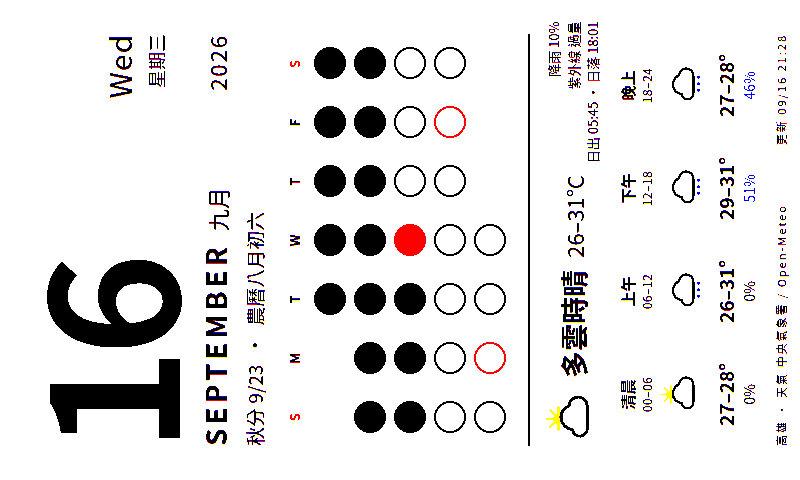
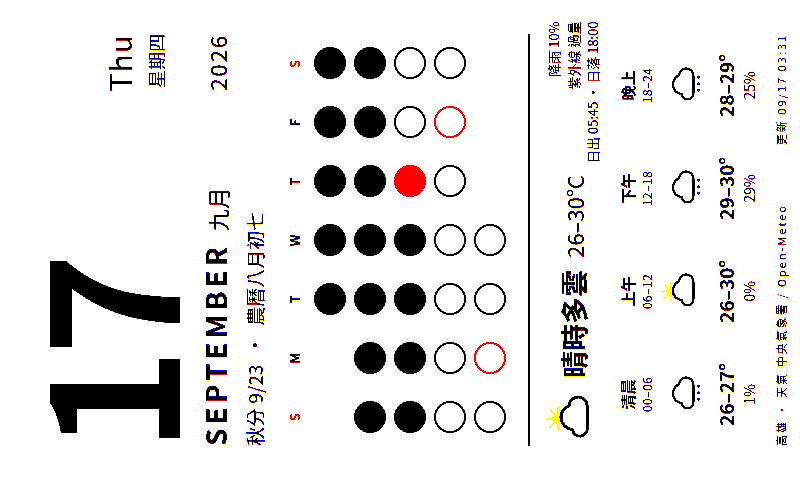
deploy: cf7d1051eb6821bc691ba0ade4beb12cdf9fe0ef

diff --git a/calendar.html b/calendar.html
@@ -47,16 +47,16 @@
 </style></head>
 <body><div class="page">
   <div class="head">
-    <div class="num">16</div>
-    <div class="wd"><div class="en">Wed</div><div class="zh">星期三</div></div>
+    <div class="num">17</div>
+    <div class="wd"><div class="en">Thu</div><div class="zh">星期四</div></div>
   </div>
   <div class="month"><span class="en">SEPTEMBER</span><span class="zh">九月</span><span class="yr">2026</span></div>
-  <div class="today"><span class="lunar">秋分 9/23</span><span>·</span><span class="lunar">農曆八月初六</span></div>
-  <div class="grid"><div class="h we">S</div><div class="h">M</div><div class="h">T</div><div class="h">W</div><div class="h">T</div><div class="h">F</div><div class="h we">S</div><div class="dot empty"></div><div class="dot empty"></div><div class="dot past" title="1"></div><div class="dot past" title="2"></div><div class="dot past" title="3"></div><div class="dot past" title="4"></div><div class="dot past" title="5"></div><div class="dot past" title="6"></div><div class="dot past" title="7"></div><div class="dot past" title="8"></div><div class="dot past" title="9"></div><div class="dot past" title="10"></div><div class="dot past" title="11"></div><div class="dot past" title="12"></div><div class="dot past" title="13"></div><div class="dot past" title="14"></div><div class="dot past" title="15"></div><div class="dot now" title="16"></div><div class="dot future" title="17"></div><div class="dot future" title="18"></div><div class="dot future" title="19"></div><div class="dot future" title="20"></div><div class="dot future" title="21"></div><div class="dot future" title="22"></div><div class="dot future" title="23"></div><div class="dot future" title="24"></div><div class="dot future hol" title="25"></div><div class="dot future" title="26"></div><div class="dot future" title="27"></div><div class="dot future hol" title="28"></div><div class="dot future" title="29"></div><div class="dot future" title="30"></div></div>
+  <div class="today"><span class="lunar">秋分 9/23</span><span>·</span><span class="lunar">農曆八月初七</span></div>
+  <div class="grid"><div class="h we">S</div><div class="h">M</div><div class="h">T</div><div class="h">W</div><div class="h">T</div><div class="h">F</div><div class="h we">S</div><div class="dot empty"></div><div class="dot empty"></div><div class="dot past" title="1"></div><div class="dot past" title="2"></div><div class="dot past" title="3"></div><div class="dot past" title="4"></div><div class="dot past" title="5"></div><div class="dot past" title="6"></div><div class="dot past" title="7"></div><div class="dot past" title="8"></div><div class="dot past" title="9"></div><div class="dot past" title="10"></div><div class="dot past" title="11"></div><div class="dot past" title="12"></div><div class="dot past" title="13"></div><div class="dot past" title="14"></div><div class="dot past" title="15"></div><div class="dot past" title="16"></div><div class="dot now" title="17"></div><div class="dot future" title="18"></div><div class="dot future" title="19"></div><div class="dot future" title="20"></div><div class="dot future" title="21"></div><div class="dot future" title="22"></div><div class="dot future" title="23"></div><div class="dot future" title="24"></div><div class="dot future hol" title="25"></div><div class="dot future" title="26"></div><div class="dot future" title="27"></div><div class="dot future hol" title="28"></div><div class="dot future" title="29"></div><div class="dot future" title="30"></div></div>
   <div class="wx"><div class="line">
-    <div class="wxhead"><svg viewBox="0 0 64 68" xmlns="http://www.w3.org/2000/svg"><g transform="translate(12 -4) scale(.6)"><circle cx="32" cy="32" r="11" fill="#f5c400"/><g stroke="#f5c400" stroke-width="4" stroke-linecap="round"><line x1="32" y1="32" x2="32" y2="8" transform="rotate(0 32 32)"/><line x1="32" y1="32" x2="32" y2="8" transform="rotate(45 32 32)"/><line x1="32" y1="32" x2="32" y2="8" transform="rotate(90 32 32)"/><line x1="32" y1="32" x2="32" y2="8" transform="rotate(135 32 32)"/><line x1="32" y1="32" x2="32" y2="8" transform="rotate(180 32 32)"/><line x1="32" y1="32" x2="32" y2="8" transform="rotate(225 32 32)"/><line x1="32" y1="32" x2="32" y2="8" transform="rotate(270 32 32)"/><line x1="32" y1="32" x2="32" y2="8" transform="rotate(315 32 32)"/></g></g><path d="M20 50h26a11 11 0 0 0 1-22 15 15 0 0 0-29 4 9 9 0 0 0 2 18z" fill="#fff" stroke="#000" stroke-width="3.5" stroke-linejoin="round"/></svg><span class="desc">多雲時晴</span><span class="temp">26–31°C</span>
-      <div class="meta">降雨 10%<br>紫外線 過量<br>日出 05:45 · 日落 18:01</div></div>
-    <div class="slots"><div class="slot"><div class="n">清晨</div><div class="hrs">00–06</div><svg viewBox="0 0 64 68" xmlns="http://www.w3.org/2000/svg"><g transform="translate(12 -4) scale(.6)"><circle cx="32" cy="32" r="11" fill="#f5c400"/><g stroke="#f5c400" stroke-width="4" stroke-linecap="round"><line x1="32" y1="32" x2="32" y2="8" transform="rotate(0 32 32)"/><line x1="32" y1="32" x2="32" y2="8" transform="rotate(45 32 32)"/><line x1="32" y1="32" x2="32" y2="8" transform="rotate(90 32 32)"/><line x1="32" y1="32" x2="32" y2="8" transform="rotate(135 32 32)"/><line x1="32" y1="32" x2="32" y2="8" transform="rotate(180 32 32)"/><line x1="32" y1="32" x2="32" y2="8" transform="rotate(225 32 32)"/><line x1="32" y1="32" x2="32" y2="8" transform="rotate(270 32 32)"/><line x1="32" y1="32" x2="32" y2="8" transform="rotate(315 32 32)"/></g></g><path d="M20 50h26a11 11 0 0 0 1-22 15 15 0 0 0-29 4 9 9 0 0 0 2 18z" fill="#fff" stroke="#000" stroke-width="3.5" stroke-linejoin="round"/></svg><div class="t">27–28°</div><div class="p dry">0%</div></div><div class="slot"><div class="n">上午</div><div class="hrs">06–12</div><svg viewBox="0 0 64 68" xmlns="http://www.w3.org/2000/svg"><path d="M20 50h26a11 11 0 0 0 1-22 15 15 0 0 0-29 4 9 9 0 0 0 2 18z" fill="#fff" stroke="#000" stroke-width="3.5" stroke-linejoin="round"/><g fill="#0040ff"><circle cx="24" cy="58" r="2.2"/><circle cx="34" cy="58" r="2.2"/><circle cx="44" cy="58" r="2.2"/></g></svg><div class="t">26–31°</div><div class="p dry">0%</div></div><div class="slot"><div class="n">下午</div><div class="hrs">12–18</div><svg viewBox="0 0 64 68" xmlns="http://www.w3.org/2000/svg"><path d="M20 50h26a11 11 0 0 0 1-22 15 15 0 0 0-29 4 9 9 0 0 0 2 18z" fill="#fff" stroke="#000" stroke-width="3.5" stroke-linejoin="round"/><g fill="#0040ff"><circle cx="24" cy="58" r="2.2"/><circle cx="34" cy="58" r="2.2"/><circle cx="44" cy="58" r="2.2"/></g></svg><div class="t">29–31°</div><div class="p ">51%</div></div><div class="slot"><div class="n">晚上</div><div class="hrs">18–24</div><svg viewBox="0 0 64 68" xmlns="http://www.w3.org/2000/svg"><path d="M20 50h26a11 11 0 0 0 1-22 15 15 0 0 0-29 4 9 9 0 0 0 2 18z" fill="#fff" stroke="#000" stroke-width="3.5" stroke-linejoin="round"/><g fill="#0040ff"><circle cx="24" cy="58" r="2.2"/><circle cx="34" cy="58" r="2.2"/><circle cx="44" cy="58" r="2.2"/></g></svg><div class="t">27–28°</div><div class="p ">46%</div></div></div>
+    <div class="wxhead"><svg viewBox="0 0 64 68" xmlns="http://www.w3.org/2000/svg"><g transform="translate(12 -4) scale(.6)"><circle cx="32" cy="32" r="11" fill="#f5c400"/><g stroke="#f5c400" stroke-width="4" stroke-linecap="round"><line x1="32" y1="32" x2="32" y2="8" transform="rotate(0 32 32)"/><line x1="32" y1="32" x2="32" y2="8" transform="rotate(45 32 32)"/><line x1="32" y1="32" x2="32" y2="8" transform="rotate(90 32 32)"/><line x1="32" y1="32" x2="32" y2="8" transform="rotate(135 32 32)"/><line x1="32" y1="32" x2="32" y2="8" transform="rotate(180 32 32)"/><line x1="32" y1="32" x2="32" y2="8" transform="rotate(225 32 32)"/><line x1="32" y1="32" x2="32" y2="8" transform="rotate(270 32 32)"/><line x1="32" y1="32" x2="32" y2="8" transform="rotate(315 32 32)"/></g></g><path d="M20 50h26a11 11 0 0 0 1-22 15 15 0 0 0-29 4 9 9 0 0 0 2 18z" fill="#fff" stroke="#000" stroke-width="3.5" stroke-linejoin="round"/></svg><span class="desc">晴時多雲</span><span class="temp">26–30°C</span>
+      <div class="meta">降雨 10%<br>紫外線 過量<br>日出 05:45 · 日落 18:00</div></div>
+    <div class="slots"><div class="slot"><div class="n">清晨</div><div class="hrs">00–06</div><svg viewBox="0 0 64 68" xmlns="http://www.w3.org/2000/svg"><path d="M20 50h26a11 11 0 0 0 1-22 15 15 0 0 0-29 4 9 9 0 0 0 2 18z" fill="#fff" stroke="#000" stroke-width="3.5" stroke-linejoin="round"/><g fill="#0040ff"><circle cx="24" cy="58" r="2.2"/><circle cx="34" cy="58" r="2.2"/><circle cx="44" cy="58" r="2.2"/></g></svg><div class="t">26–27°</div><div class="p dry">1%</div></div><div class="slot"><div class="n">上午</div><div class="hrs">06–12</div><svg viewBox="0 0 64 68" xmlns="http://www.w3.org/2000/svg"><g transform="translate(12 -4) scale(.6)"><circle cx="32" cy="32" r="11" fill="#f5c400"/><g stroke="#f5c400" stroke-width="4" stroke-linecap="round"><line x1="32" y1="32" x2="32" y2="8" transform="rotate(0 32 32)"/><line x1="32" y1="32" x2="32" y2="8" transform="rotate(45 32 32)"/><line x1="32" y1="32" x2="32" y2="8" transform="rotate(90 32 32)"/><line x1="32" y1="32" x2="32" y2="8" transform="rotate(135 32 32)"/><line x1="32" y1="32" x2="32" y2="8" transform="rotate(180 32 32)"/><line x1="32" y1="32" x2="32" y2="8" transform="rotate(225 32 32)"/><line x1="32" y1="32" x2="32" y2="8" transform="rotate(270 32 32)"/><line x1="32" y1="32" x2="32" y2="8" transform="rotate(315 32 32)"/></g></g><path d="M20 50h26a11 11 0 0 0 1-22 15 15 0 0 0-29 4 9 9 0 0 0 2 18z" fill="#fff" stroke="#000" stroke-width="3.5" stroke-linejoin="round"/></svg><div class="t">26–30°</div><div class="p dry">0%</div></div><div class="slot"><div class="n">下午</div><div class="hrs">12–18</div><svg viewBox="0 0 64 68" xmlns="http://www.w3.org/2000/svg"><path d="M20 50h26a11 11 0 0 0 1-22 15 15 0 0 0-29 4 9 9 0 0 0 2 18z" fill="#fff" stroke="#000" stroke-width="3.5" stroke-linejoin="round"/><g fill="#0040ff"><circle cx="24" cy="58" r="2.2"/><circle cx="34" cy="58" r="2.2"/><circle cx="44" cy="58" r="2.2"/></g></svg><div class="t">29–30°</div><div class="p dry">29%</div></div><div class="slot"><div class="n">晚上</div><div class="hrs">18–24</div><svg viewBox="0 0 64 68" xmlns="http://www.w3.org/2000/svg"><path d="M20 50h26a11 11 0 0 0 1-22 15 15 0 0 0-29 4 9 9 0 0 0 2 18z" fill="#fff" stroke="#000" stroke-width="3.5" stroke-linejoin="round"/><g fill="#0040ff"><circle cx="24" cy="58" r="2.2"/><circle cx="34" cy="58" r="2.2"/><circle cx="44" cy="58" r="2.2"/></g></svg><div class="t">28–29°</div><div class="p dry">25%</div></div></div>
   </div></div>
-  <div class="foot"><span>高雄 · 天氣 中央氣象署 / Open-Meteo</span><span>更新 09/16 21:28</span></div>
+  <div class="foot"><span>高雄 · 天氣 中央氣象署 / Open-Meteo</span><span>更新 09/17 03:31</span></div>
 </div></body></html>
